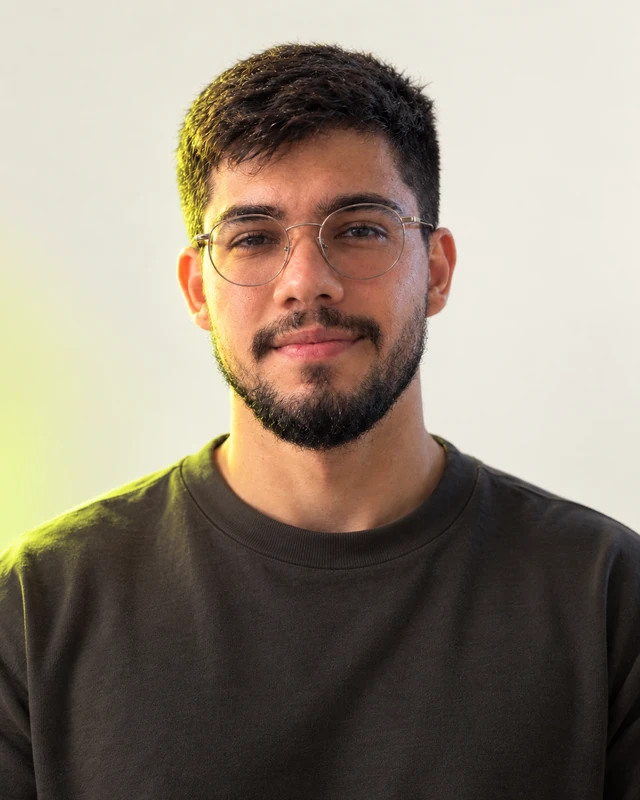
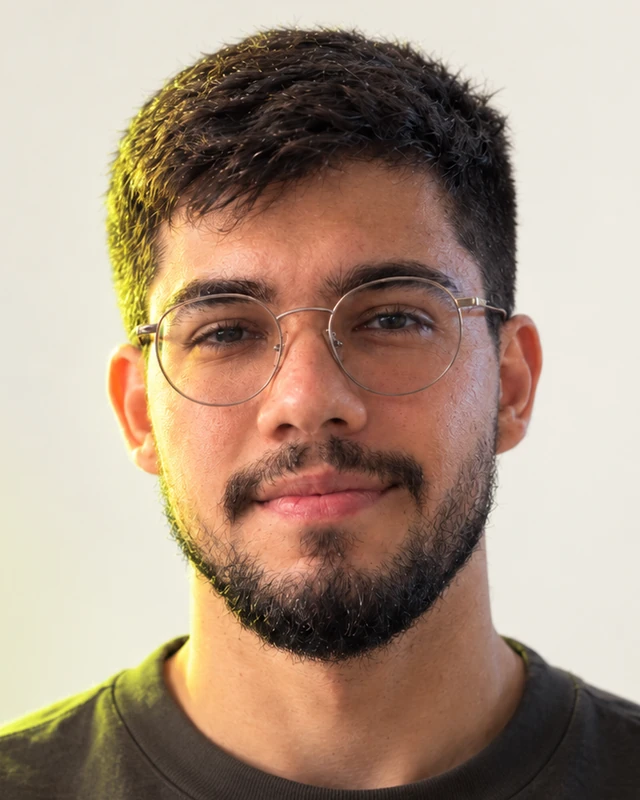
Refine founder portrait crops and add LinkedIn links

diff --git a/index.html b/index.html
@@ -170,6 +170,8 @@
     .founder-card { min-width: 0; margin: 0; }
     .founder-card img { width: 100%; aspect-ratio: 4 / 5; object-fit: cover; }
     .founder-card figcaption { padding-block: 1rem; border-bottom: 1px solid var(--line); font: 600 var(--font-card)/1.2 var(--sans); }
+    .founder-link { display: table; margin-top: .25rem; padding-block: .5rem; color: var(--muted); font: 400 var(--font-aux)/1.4 var(--sans); text-underline-offset: .2em; }
+    .founder-link:hover, .founder-link:focus-visible { color: var(--ink); }
 
     .contact { background: var(--lime); }
     .contact-grid { display: grid; grid-template-columns: 1.2fr .8fr; gap: clamp(3rem, 8vw, 8rem); align-items: end; }
@@ -518,20 +520,28 @@
         </div>
         <div class="founder-grid">
           <figure class="founder-card">
-            <img src="assets/founder-luana.webp" width="640" height="853" alt="Luana Martins" loading="lazy">
-            <figcaption>Luana Martins</figcaption>
+            <img src="assets/founder-luana.webp" width="640" height="800" alt="Luana Martins" loading="lazy">
+            <figcaption>Luana Martins
+              <a class="founder-link" href="https://www.linkedin.com/in/luanagbmartins/" aria-label="Luana Martins — LinkedIn">LinkedIn</a>
+            </figcaption>
           </figure>
           <figure class="founder-card">
             <img src="assets/founder-bryan.webp" width="640" height="800" alt="Bryan de Oliveira" loading="lazy">
-            <figcaption>Bryan de Oliveira</figcaption>
+            <figcaption>Bryan de Oliveira
+              <a class="founder-link" href="https://www.linkedin.com/in/bryanoliveira/" aria-label="Bryan de Oliveira — LinkedIn">LinkedIn</a>
+            </figcaption>
           </figure>
           <figure class="founder-card">
             <img src="assets/founder-bruno.webp" width="640" height="640" alt="Bruno Brandão" loading="lazy">
-            <figcaption>Bruno Brandão</figcaption>
+            <figcaption>Bruno Brandão
+              <a class="founder-link" href="https://www.linkedin.com/in/bruno-bsm/" aria-label="Bruno Brandão — LinkedIn">LinkedIn</a>
+            </figcaption>
           </figure>
           <figure class="founder-card">
             <img src="assets/founder-murilo.webp" width="640" height="800" alt="Murilo Lopes" loading="lazy">
-            <figcaption>Murilo Lopes</figcaption>
+            <figcaption>Murilo Lopes
+              <a class="founder-link" href="https://www.linkedin.com/in/murilo-lopes-da-luz-b3749728/" aria-label="Murilo Lopes — LinkedIn">LinkedIn</a>
+            </figcaption>
           </figure>
         </div>
       </div>

diff --git a/README.md b/README.md
@@ -49,6 +49,8 @@ English content lives in HTML and remains available without JavaScript.
 The inline script shuffles complete founder cards once per page load with Fisher–Yates and `Math.random()`.
 An order can repeat by chance. Language changes preserve the current card order.
 Without JavaScript, all four cards remain visible in markup order.
+Each caption includes a LinkedIn link. Links open in the same tab and use the founder's name in their accessible label.
+The names and LinkedIn label are the same in both languages.
 
 The language selector stores `en` or `pt-BR` under `szero-lang` in local storage.
 Only `pt-BR` selects Portuguese on load. Any other stored value selects English.
@@ -82,17 +84,34 @@ The supplied filenames establish the name-to-photo mapping:
 
 | Name | Supplied filename | Site asset | Dimensions |
 | --- | --- | --- | --- |
-| Luana Martins | `foto_luana.jpeg` | `assets/founder-luana.webp` | 640 × 853 |
+| Luana Martins | `foto_luana.jpeg` | `assets/founder-luana.webp` | 640 × 800 |
 | Bryan de Oliveira | `foto_bryan.png` | `assets/founder-bryan.webp` | 640 × 800 |
 | Bruno Brandão | `foto_bruno.png` | `assets/founder-bruno.webp` | 640 × 640 |
 | Murilo Lopes | `founder-murilo.png` | `assets/founder-murilo.webp` | 640 × 800 |
 
-The WebP assets preserve the full source frame after proportional resizing to 640 pixels wide.
+Bruno's WebP preserves the full source frame after proportional resizing to 640 pixels wide.
+The other three WebP assets use tighter 4:5 crops from the supplied originals, with Bruno as the face-size reference.
+Crop coordinates use source pixels as `(left, top, right, bottom)`, with exclusive right and bottom edges:
+
+| Name | Source dimensions | Crop coordinates |
+| --- | --- | --- |
+| Bryan de Oliveira | 1122 × 1402 | `(190, 45, 910, 945)` |
+| Luana Martins | 1086 × 1448 | `(85, 65, 805, 965)` |
+| Murilo Lopes | 1122 × 1402 | `(196, 85, 884, 945)` |
+
+The original files remain unchanged. Crop derivatives resize proportionally to 640 × 800 pixels.
 Conversion uses Pillow LANCZOS resampling and WebP quality 90, method 6. It does not copy source metadata.
 No aesthetic retouching, color filters, or invented roles accompany the photos.
 CSS displays each photo in a centered 4:5 frame with `object-fit: cover`.
 The grid uses four columns above 900px, two from 681px through 900px, and one at 680px or below.
 Images load lazily, declare their dimensions, and use the supplied names as alternative text.
+
+| Name | LinkedIn profile |
+| --- | --- |
+| Bryan de Oliveira | https://www.linkedin.com/in/bryanoliveira/ |
+| Murilo Lopes | https://www.linkedin.com/in/murilo-lopes-da-luz-b3749728/ |
+| Bruno Brandão | https://www.linkedin.com/in/bruno-bsm/ |
+| Luana Martins | https://www.linkedin.com/in/luanagbmartins/ |
 
 ## Verification
 
@@ -101,6 +120,8 @@ Use the actual static files in Chromium for visual and behavior checks.
 Follow the viewport and typography checks in `brand/typography.md`.
 
 - Check all four name-to-photo pairs, loaded images, and the accessible section heading.
+- Compare face sizes with Bruno's unchanged portrait. Check the three crop derivatives against their original photographs.
+- Check each LinkedIn destination, accessible name, keyboard focus, and association after shuffle and language changes.
 - Check EN/PT selection, translated footer links, reload persistence, and blocked local storage.
 - Check that reloads allow different orders without duplicates or missing cards.
 - Check that language changes preserve card order and JavaScript-disabled pages show all four founders.
